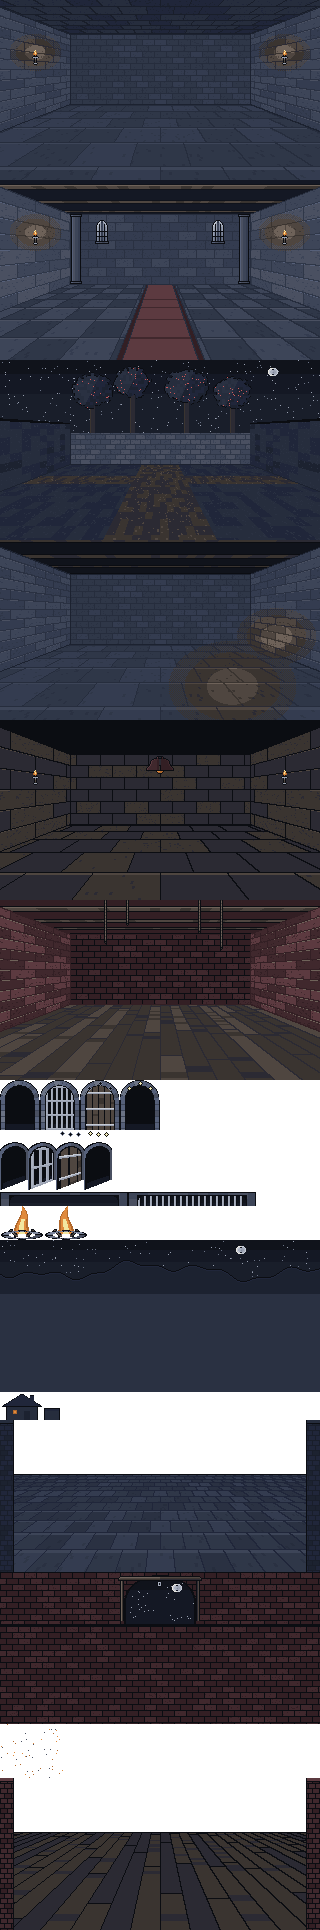
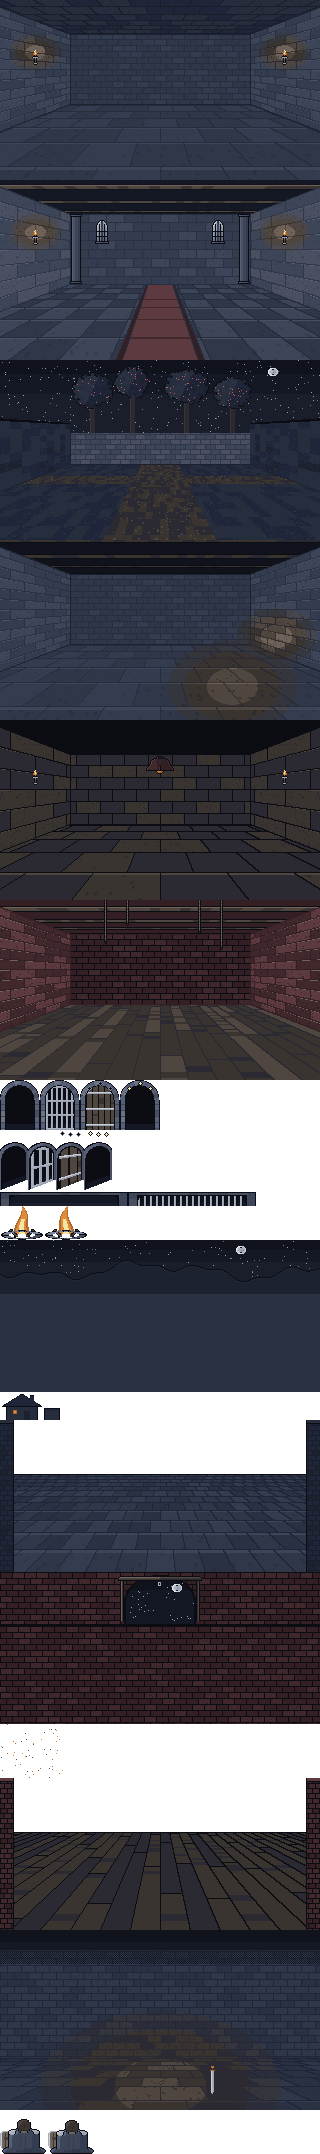
Draw the bonfire rest scene: the player seated by the fire
rest_backdrop (stone in the fire's glow, dark behind the title), the bonfire
prop, and rest_player built from the player's own parts, breathing unless
motion is reduced. Flat shapes stay as the fallback. DECISIONS #94.

diff --git a/art/scenery/rest.ts b/art/scenery/rest.ts
@@ -1,0 +1,79 @@
+// The bonfire rest scene (scenes/review.ts): a close view of the fire against a stone wall,
+// and the player sitting before it, seen from behind, shield leaning at his side and sword
+// planted in the ground. The review text sits in a panel over the middle (x 16..303,
+// y 26..109), so the wall is darkest at the top behind the title and the picture lives below.
+import { mirrored, type CharacterArt, type Part } from '../kit';
+import { cloak, head, shield, sword } from '../sprites/player';
+import { PixelCanvas, still, states } from './canvas';
+import { masonry, slabs } from './rooms';
+
+/** Screen row where the floor meets the wall, and the floor's vanishing point. */
+const HORIZON = 128;
+const VP_Y = 100;
+/** The fire's centre, for the glow. Matches PROP_AT.restFire in scenes/sceneryLayout.ts. */
+const FIRE = { x: 160, y: 156 };
+
+const WARM: Record<string, string> = { E: 'T', F: 'T', G: 'U', H: 'U', I: 'V', J: 'V', K: 'W', L: 'W' };
+const EMBER: Record<string, string> = { E: 'T', F: 'T', G: 'T', H: 'T', I: 'U', J: 'U', K: 'V', L: 'V' };
+
+function backdrop(): Part {
+  const c = new PixelCanvas(320, 180);
+  const wall = masonry(14, 7, ['H', 'I', 'I'], 'J', 'F');
+  const floor = slabs(20, 10, ['H', 'I'], 'J', 'F');
+  const floorAt = (x: number, y: number): [number, number] => {
+    const k = (y + 0.5 - VP_Y) / (HORIZON - VP_Y);
+    return [(x + 0.5 - 160) / k, 100 / k];
+  };
+  c.each(0, 0, 320, 180, (x, y) => {
+    let k: string;
+    if (y < HORIZON) {
+      const id = wall.id(x, y);
+      k = id !== wall.id(x - 1, y) || id !== wall.id(x, y - 1) ? wall.joint : wall.color(x, y, id);
+      // Darker toward the top, where the title is written: an ordered fade into shadow.
+      if (y < 20 || (y < 34 && (x + y) % 2 === 0)) k = y < 12 ? 'B' : 'C';
+    } else if (y === HORIZON) k = 'E';
+    else {
+      const [u, v] = floorAt(x, y);
+      const [lu, lv] = floorAt(x - 1, y);
+      const [uu, uv] = floorAt(x, y - 1);
+      const id = floor.id(u, v);
+      k = id !== floor.id(lu, lv) || id !== floor.id(uu, uv) ? floor.joint : floor.color(u, v, id);
+    }
+    // Firelight: a warm pool round the fire, fading in a checkerboard.
+    const d = Math.hypot(x - FIRE.x, (y - FIRE.y) * 1.6);
+    if (d < 46) return WARM[k] ?? k;
+    if (d < 90) return EMBER[k] ?? k;
+    if (d < 120 && (x + y) % 2 === 0) return EMBER[k] ?? k;
+    return k;
+  });
+  // The sword, planted point-down in the floor on the far side of the fire.
+  c.stamp(sword, 210, 136);
+  return c.toPart('rest backdrop');
+}
+
+/** The cloak where it pools on the ground around a seated body. */
+const pooled = mirrored('player cloak pooled', 22, [
+  '6. 2A 14K',
+  '4. 2A 2M 14K',
+  '2. 2A 3M 15K',
+  '1. A 3M 9K J 7K',
+  'A 3M 10K J 7J',
+  'A 2M 11K J 7J',
+  '1. A 20J',
+  '2. 20A',
+]);
+
+/** Shoulders and back only: the top rows of the standing cloak. */
+const shoulders: Part = { ...cloak, name: 'player cloak shoulders', h: 20, rows: cloak.rows.slice(0, 20) };
+
+/** Seated by the fire, back to us, head bowed a little. Two breaths. */
+function seated(breath: number): Part {
+  const c = new PixelCanvas(48, 44);
+  c.stamp(shield, 0, 21); // leaning against his left side
+  c.stamp(pooled, 2, 36);
+  c.stamp(shoulders, 7, 18 + breath);
+  c.stamp(head, 17, 9 + breath); // bowed toward the fire
+  return c.toPart(`player seated ${breath}`);
+}
+
+export const REST: readonly CharacterArt[] = [still('rest_backdrop', backdrop()), states('rest_player', 48, 44, { sit: [seated(0), seated(1)] })];

diff --git a/src/scenes/review.ts b/src/scenes/review.ts
@@ -7,6 +7,7 @@ import type { InputEvent } from '../platform/input';
 import { C } from '../platform/palette';
 import type { Renderer } from '../platform/renderer';
 import { completed } from './fight';
+import { PROP_AT, STILL } from './sceneryLayout';
 import type { Services } from './services';
 
 type Phase = 'asking' | 'feedback' | 'done';
@@ -98,13 +99,24 @@ export class Review {
   render(r: Renderer, footer: string, nowMs: number): void {
     r.begin(C.sky);
     const g = r.low;
-    g.fillStyle = C.floor;
-    g.fillRect(0, 120, 320, 60);
-    // Bonfire: a stack of flame triangles.
-    g.fillStyle = C.ember;
-    for (let i = 0; i < 10; i++) g.fillRect(160 - (10 - i), 150 - i * 2, (10 - i) * 2, 2);
+    // The player resting by the fire; flat shapes if the scenery sheet is missing. The fire
+    // flickers and he breathes unless motion is reduced.
+    const calm = this.svc.settings.reducedMotion;
+    const sprites = this.svc.sprites;
+    if (sprites.draw(g, 'rest_backdrop', STILL, PROP_AT.room.x, PROP_AT.room.bottom)) {
+      sprites.draw(g, 'bonfire', { tag: 'burn', frame: calm ? 0 : Math.floor(nowMs / 160) % 2, flip: false }, PROP_AT.restFire.x, PROP_AT.restFire.bottom);
+      sprites.draw(g, 'rest_player', { tag: 'sit', frame: calm ? 0 : Math.floor(nowMs / 1100) % 2, flip: false }, PROP_AT.restPlayer.x, PROP_AT.restPlayer.bottom);
+    } else {
+      g.fillStyle = C.floor;
+      g.fillRect(0, 120, 320, 60);
+      g.fillStyle = C.ember;
+      for (let i = 0; i < 10; i++) g.fillRect(160 - (10 - i), 150 - i * 2, (10 - i) * 2, 2);
+    }
     g.fillStyle = C.barBack;
     g.fillRect(16, 26, 288, 84);
+    g.fillStyle = C.cardEdge;
+    g.fillRect(16, 26, 288, 1);
+    g.fillRect(16, 109, 288, 1);
     r.present();
 
     const total = this.questions.length;

diff --git a/art/sprites/player.ts b/art/sprites/player.ts
@@ -6,7 +6,7 @@ import { at, flipX, lerp, part, rotCW, type CharacterArt, type Frame, type Place
 
 // --- parts -----------------------------------------------------------------
 
-const cloak = part('player cloak', 34, [
+export const cloak = part('player cloak', 34, [
   '9. 16A',
   '4. 5A 16M 5A',
   '2. 2A 3R 2Q A 14M A 2Q 3P 2A',
@@ -23,7 +23,7 @@ const cloak = part('player cloak', 34, [
   '4. 4A 2. 10A 2. 5A',
 ]);
 
-const head = part('player head', 14, [
+export const head = part('player head', 14, [
   '4. 6A',
   '2. 2A 6V 2A',
   '1. A 3V 6U A',
@@ -44,7 +44,7 @@ const legL = part('player leg', 9, ['A 7I A', 'A 6J I A', 'A 6J I A', 'A 6J I A'
 const legR = flipX(legL);
 
 /** The back of a round-topped plank shield: steel rim, wooden planks, a leather strap. */
-const shield = part('player shield', 16, [
+export const shield = part('player shield', 16, [
   '2. 12Q',
   '1. Q R 11W Q',
   'Q R 3W U 3W U 4W P Q',
@@ -68,7 +68,7 @@ const shield = part('player shield', 16, [
 ]);
 
 /** Sword at the hip, point down. */
-const sword = part('player sword', 5, [
+export const sword = part('player sword', 5, [
   '1. 3d',
   '1. d c d',
   '2. V',

diff --git a/art/art.test.ts b/art/art.test.ts
@@ -193,6 +193,11 @@ describe('scenery', () => {
     }
   });
 
+  it('has the bonfire rest scene: a backdrop and the seated player breathing', () => {
+    expect([piece('rest_backdrop').w, piece('rest_backdrop').h]).toEqual([320, 180]);
+    expect(piece('rest_player').tags['sit']).toHaveLength(2);
+  });
+
   it('the committed public/art/scenery files match a fresh build (run `npm run build-art`)', () => {
     expect(readFileSync('public/art/scenery.json', 'utf8')).toBe(atlasJsonText(sheet));
     expect(Buffer.from(readFileSync('public/art/scenery.png')).equals(Buffer.from(encodePng(sheet.width, sheet.height, sheet.rgba)))).toBe(true);

diff --git a/src/scenes/sceneryLayout.ts b/src/scenes/sceneryLayout.ts
@@ -13,6 +13,9 @@ export const PROP_AT = {
   /** Fight arena layers: back and near fill rows 28..179; the far strip stands on the horizon. */
   arena: { x: 160, bottom: 180 },
   arenaFar: { bottom: 82, tile: 64 },
+  /** The bonfire rest scene: the fire close up, the player seated to its left. */
+  restFire: { x: 160, bottom: 172 },
+  restPlayer: { x: 112, bottom: 176 },
 } as const;
 
 export const STILL: SpriteFrame = { tag: 'still', frame: 0, flip: false };

diff --git a/art/scenery/index.ts b/art/scenery/index.ts
@@ -2,6 +2,7 @@
 import type { CharacterArt } from '../kit';
 import { ARENAS } from './arenas';
 import { PROPS } from './props';
+import { REST } from './rest';
 import { ROOMS } from './rooms';
 
-export const SCENERY: readonly CharacterArt[] = [...ROOMS, ...PROPS, ...ARENAS];
+export const SCENERY: readonly CharacterArt[] = [...ROOMS, ...PROPS, ...ARENAS, ...REST];

diff --git a/docs/DECISIONS.md b/docs/DECISIONS.md
@@ -234,4 +234,9 @@ Each entry: what was ambiguous, the reading picked, and why. Revisit any of them
       - every backdrop the zone data uses has a room;
       - each door state is a different picture;
       - the committed scenery files match a fresh build.
+    - **The bonfire rest scene** (`scenes/review.ts`) uses the same sheet:
+      - `rest_backdrop`: a close stone wall and floor in the fire's glow, darkest at the top, where the title sits;
+      - the bonfire prop;
+      - `rest_player`: the player from behind, seated with his shield at his side, built from his own parts. His sword is planted beyond the fire.
 
+      He breathes and the fire flickers, both held still with reduced motion. The review panel keeps its place and gains a thin frame. Nothing in the scene changes with the question.

diff --git a/docs/PROGRESS.md b/docs/PROGRESS.md
@@ -222,7 +222,8 @@ Decisions #77–#90.
   - the six room backdrops, in perspective, with their own textures and props;
   - doors in four states that differ by shape;
   - the bonfire;
-  - both fight arenas, as back, drifting far and near layers.
+  - both fight arenas, as back, drifting far and near layers;
+  - the bonfire rest scene, with the player seated by the fire.
 
   The flat shapes remain as the fallback.
 
